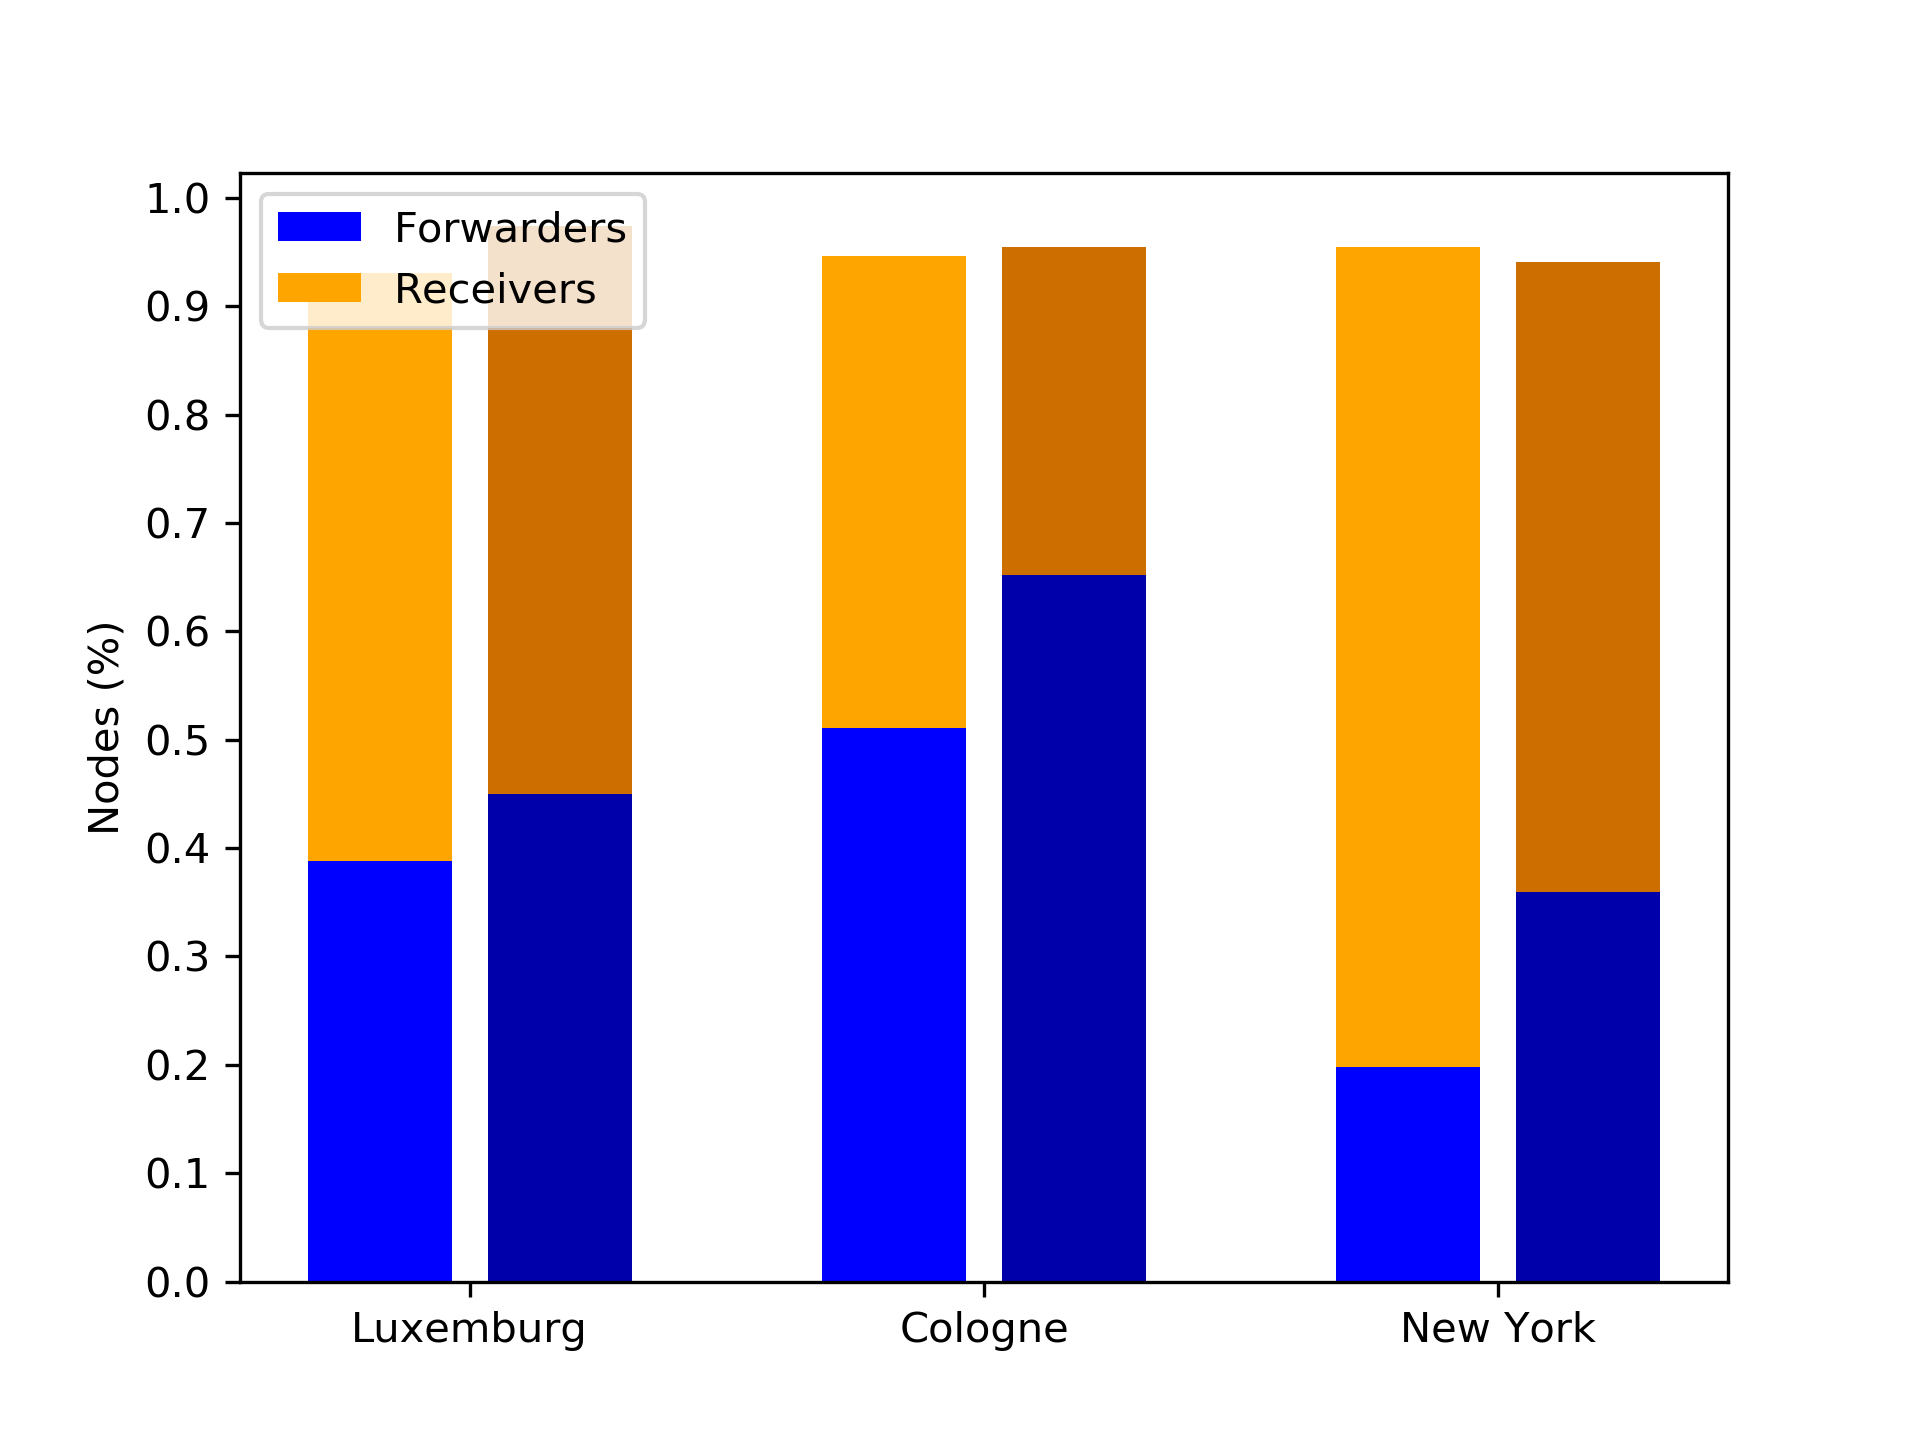
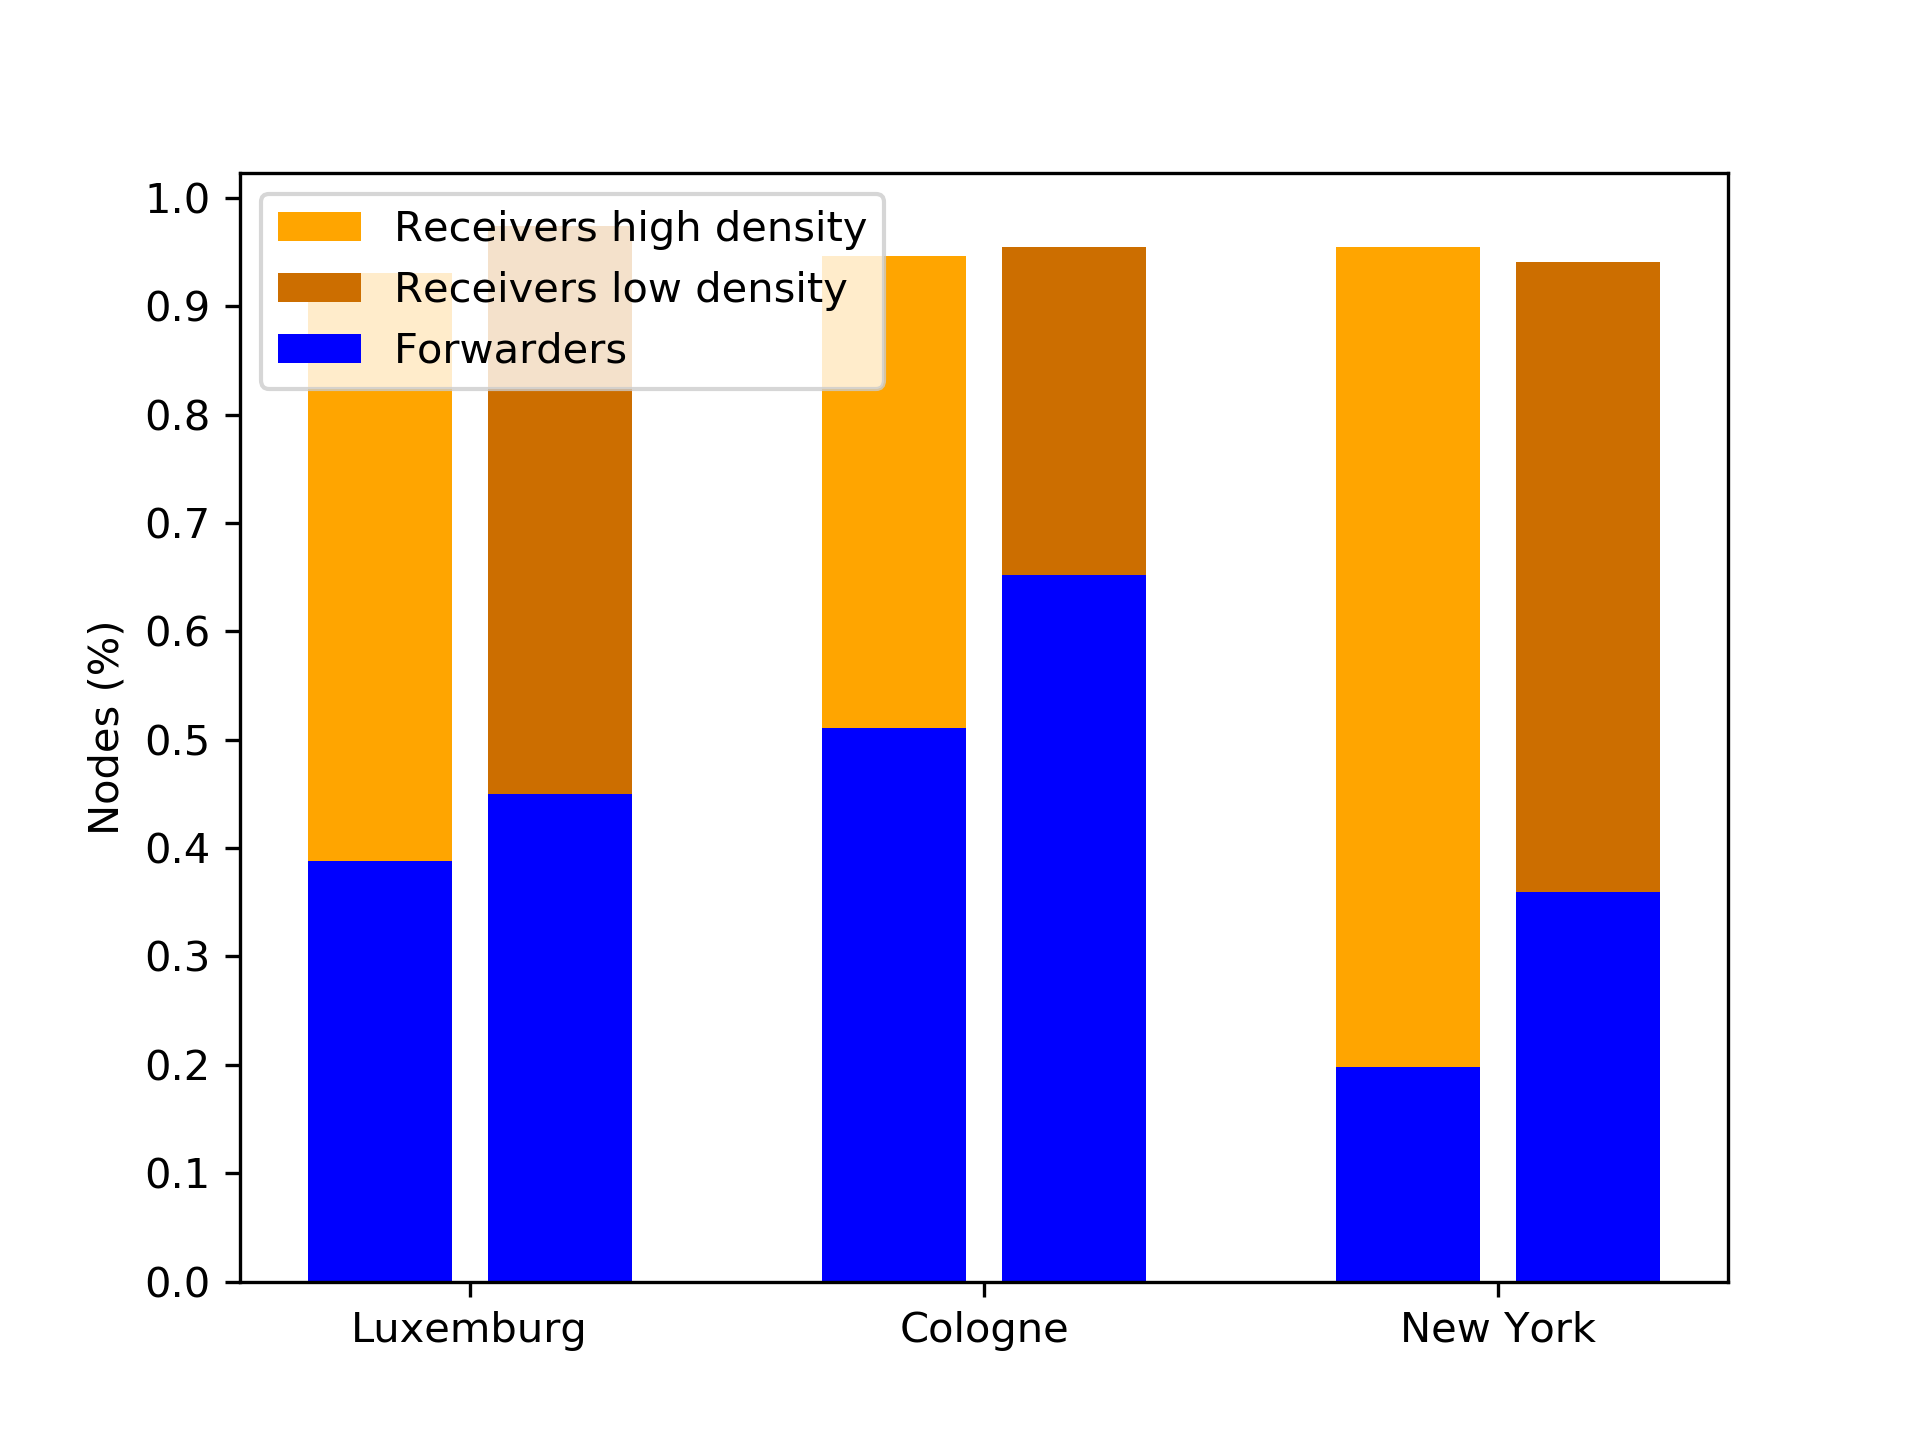
fixed graphs

diff --git a/grafici/graph-TC-comparison.py b/grafici/graph-TC-comparison.py
@@ -47,10 +47,11 @@ import matplotlib.pyplot as plt
 
 
 N = 3
-means_infected_low = (0.9128-(305.71/787), 0.9542-(143.53/220), 0.9405-(155.61/433))
-means_frw_low = (355.48/790, 143.53/220, 155.61/433)
-means_infected = (0.9917-(355.48/790), 0.9463-(222.75/436), 0.9547-(118.63/600))
+means_recv = (0.9917-(355.48/790), 0.9463-(222.75/436), 0.9547-(118.63/600))
 means_frw = (305.71/787, 222.75/436, 118.63/600)
+
+
+
 ind = np.arange(N)    # the x locations for the groups
 width = 0.28       # the width of the bars: can also be len(x) sequence
 
@@ -59,7 +60,7 @@ fig, ax = plt.subplots()
 gap = 0.07
 
 p1 = plt.bar(ind, means_frw, width, color='b')
-p2 = plt.bar(ind, means_infected, width,
+p2 = plt.bar(ind, means_recv, width,
              bottom=means_frw, color='#ffa500')
 p3 = plt.bar(ind+width+gap, means_frw_low, width, color='b')
 p4 = plt.bar(ind+width+gap, means_infected_low, width,
